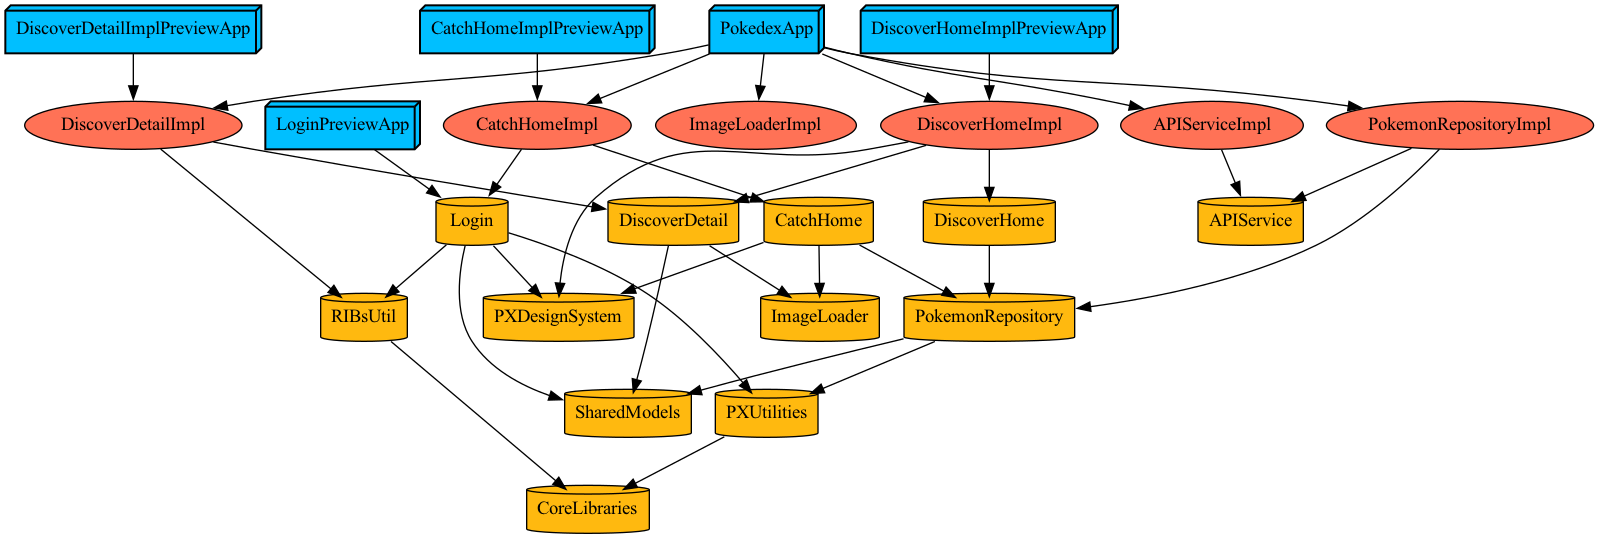
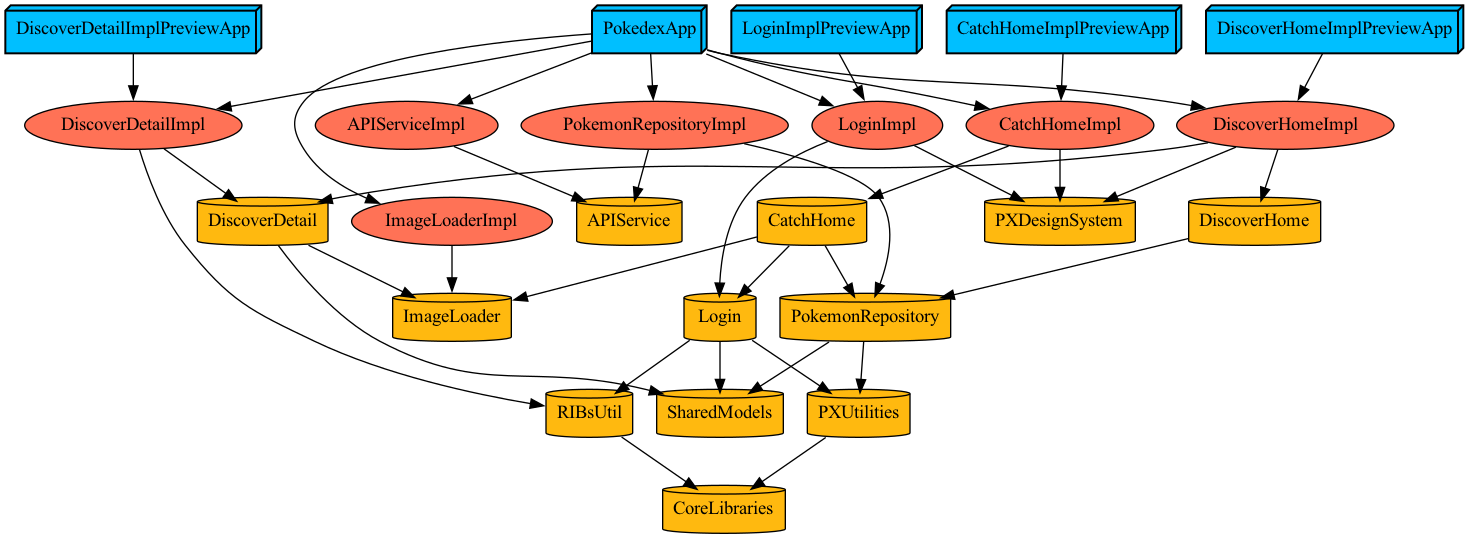
refactor: Login 모듈 인터페이스 분리

diff --git a/Modules/PokedexApp/Sources/AppRoot/AppRootBuilder.swift b/Modules/PokedexApp/Sources/AppRoot/AppRootBuilder.swift
@@ -7,10 +7,11 @@
 
 import CatchHome
 import DiscoverDetail
-import PokemonRepository
-import ImageLoader
 import DiscoverHome
 import DiscoverHomeImpl
+import ImageLoader
+import Login
+import PokemonRepository
 import PXUtilities
 import RIBs
 import RxSwift
@@ -19,6 +20,8 @@ import SharedModels
 protocol AppRootDependency: Dependency {
   var catchHomeBuilder: CatchHomeBuildable { get }
   var discoverDetailBuilder: DiscoverDetailBuildable { get }
+  var loginBuilder: LoginBuildable { get }
+
   var pokemonRepository: PokemonRepository { get }
   var imageLoader: ImageLoader { get }
   var userSubject: BehaviorSubject<User?> { get }
@@ -32,6 +35,8 @@ final class AppRootComponent:
   CatchHomeDependency {
   var catchHomeBuilder: CatchHomeBuildable { dependency.catchHomeBuilder }
   var discoverDetailBuilder: DiscoverDetailBuildable { dependency.discoverDetailBuilder }
+  var loginBuilder: LoginBuildable { dependency.loginBuilder }
+
   private let rootViewController: ViewControllable
   var pokemonRepository: PokemonRepository { dependency.pokemonRepository }
   var imageLoader: ImageLoader { dependency.imageLoader }

diff --git a/Modules/Platform/Project.swift b/Modules/Platform/Project.swift
@@ -24,19 +24,30 @@ let project: Project = .feature(
     TargetConfiguration(
       name: "ImageLoaderImpl",
       targetTypes: [.unitTest],
-      productType: .staticLibrary
+      productType: .staticLibrary,
+      dependencies: [
+        .target(name: "ImageLoader")
+      ]
     ),
     TargetConfiguration(
       name: "Login",
-      targetTypes: [
-        .unitTest,
-        .preview,
-      ],
+      targetTypes: [],
       productType: .framework,
       dependencies: [
         .target(name: "PXUtilities"),
         .target(name: "RIBsUtil"),
         .target(name: "SharedModels"),
+      ]
+    ),
+    TargetConfiguration(
+      name: "LoginImpl",
+      targetTypes: [
+        .unitTest,
+        .preview,
+      ],
+      productType: .staticLibrary,
+      dependencies: [
+        .target(name: "Login"),
         .project(target: "PXDesignSystem", path: .relativeToRoot("Modules/PXDesignSystem")),
       ]
     ),

diff --git a/Modules/PokedexApp/Sources/Application/AppComponent.swift b/Modules/PokedexApp/Sources/Application/AppComponent.swift
@@ -13,6 +13,8 @@ import DiscoverDetail
 import DiscoverDetailImpl
 import ImageLoader
 import ImageLoaderImpl
+import Login
+import LoginImpl
 import PokemonRepository
 import PokemonRepositoryImpl
 import PXUtilities
@@ -20,13 +22,21 @@ import RIBs
 import RxSwift
 import SharedModels
 
-final class AppComponent: Component<EmptyDependency>, AppRootDependency, DiscoverDetailDependency, CatchHomeDependency {
+final class AppComponent:
+  Component<EmptyDependency>,
+  AppRootDependency,
+  DiscoverDetailDependency,
+  CatchHomeDependency,
+  LoginDependency {
 
   lazy var catchHomeBuilder: CatchHomeBuildable = {
     return CatchHomeBuilder(dependency: self)
   }()
   lazy var discoverDetailBuilder: DiscoverDetailBuildable = {
     return DiscoverDetailBuilder(dependency: self)
+  }()
+  lazy var loginBuilder: LoginBuildable = {
+    return LoginBuilder(dependency: self)
   }()
 
   let apiService = APIServiceImpl(session: .shared)

diff --git a/Modules/Catch/Project.swift b/Modules/Catch/Project.swift
@@ -10,8 +10,8 @@ let project: Project = .feature(
       productType: .framework,
       dependencies: [
         .project(target: "ImageLoader", path: .relativeToRoot("Modules/Platform")),
+        .project(target: "Login", path: .relativeToRoot("Modules/Platform")),
         .project(target: "PokemonRepository", path: .relativeToRoot("Modules/Platform")),
-        .project(target: "PXDesignSystem", path: .relativeToRoot("Modules/PXDesignSystem")),
       ]
     ),
     TargetConfiguration(
@@ -20,7 +20,7 @@ let project: Project = .feature(
       productType: .staticLibrary,
       dependencies: [
         .target(name: "CatchHome"),
-        .project(target: "Login", path: .relativeToRoot("Modules/Platform")),
+        .project(target: "PXDesignSystem", path: .relativeToRoot("Modules/PXDesignSystem")),
       ]
     ),
   ],

diff --git a/Modules/Catch/CatchHomeImpl/Sources/CatchHomeBuilder.swift b/Modules/Catch/CatchHomeImpl/Sources/CatchHomeBuilder.swift
@@ -17,6 +17,7 @@ final class CatchHomeComponent:
   Component<CatchHomeDependency>,
   CatchHomeInteractorDependency,
   LoginDependency {
+  var loginBuilder: LoginBuildable { dependency.loginBuilder }
   var pokemonRepository: PokemonRepository { dependency.pokemonRepository }
   var imageLoader: ImageLoader { dependency.imageLoader }
   var user: ReadOnlyBehaviorSubject<User?> { dependency.user }
@@ -39,12 +40,10 @@ public final class CatchHomeBuilder: Builder<CatchHomeDependency>, CatchHomeBuil
     )
     interactor.listener = listener
 
-    let loginBuilder = LoginBuilder(dependency: component)
-
     return CatchHomeRouter(
       interactor: interactor,
       viewController: viewController,
-      loginBuilder: loginBuilder
+      loginBuilder: component.loginBuilder
     )
   }
 }

diff --git a/Modules/Platform/LoginImpl/Sources/LoginBuilder.swift b/Modules/Platform/LoginImpl/Sources/LoginBuilder.swift
@@ -5,23 +5,16 @@
 //  Created by Geonhee on 2023/03/13.
 //
 
+import Login
 import PXUtilities
 import RIBs
 import SharedModels
-
-public protocol LoginDependency: Dependency {
-  var user: ReadOnlyBehaviorSubject<User?> { get }
-}
 
 final class LoginComponent: Component<LoginDependency>, LoginInteractorDependency {
   var user: ReadOnlyBehaviorSubject<User?> { dependency.user }
 }
 
 // MARK: - Builder
-
-public protocol LoginBuildable: Buildable {
-  func build(withListener listener: LoginListener) -> ViewableRouting
-}
 
 public final class LoginBuilder: Builder<LoginDependency>, LoginBuildable {
 

diff --git a/Modules/PokedexApp/Project.swift b/Modules/PokedexApp/Project.swift
@@ -9,6 +9,7 @@ let project: Project = .app(
     .project(target: "DiscoverDetailImpl", path: .relativeToRoot("Modules/Discover")),
     .project(target: "APIServiceImpl", path: .relativeToRoot("Modules/Platform")),
     .project(target: "ImageLoaderImpl", path: .relativeToRoot("Modules/Platform")),
+    .project(target: "LoginImpl", path: .relativeToRoot("Modules/Platform")),
     .project(target: "PokemonRepositoryImpl", path: .relativeToRoot("Modules/Platform")),
   ],
   additionalFiles: [

diff --git a/Modules/Platform/Login/Sources/LoginInterface.swift b/Modules/Platform/Login/Sources/LoginInterface.swift
@@ -1,0 +1,22 @@
+//
+//  LoginBuilder.swift
+//  Login
+//
+//  Created by Geonhee on 2023/03/13.
+//
+
+import PXUtilities
+import RIBs
+import SharedModels
+
+public protocol LoginDependency: Dependency {
+  var user: ReadOnlyBehaviorSubject<User?> { get }
+}
+
+public protocol LoginBuildable: Buildable {
+  func build(withListener listener: LoginListener) -> ViewableRouting
+}
+
+public protocol LoginListener: AnyObject {
+  func loginDidTapLoginButton(with user: User)
+}

diff --git a/Modules/Platform/LoginImpl/Sources/LoginInteractor.swift b/Modules/Platform/LoginImpl/Sources/LoginInteractor.swift
@@ -5,6 +5,7 @@
 //  Created by Geonhee on 2023/03/13.
 //
 
+import Login
 import PXUtilities
 import RIBs
 import RxSwift
@@ -15,10 +16,6 @@ protocol LoginRouting: ViewableRouting {
 
 protocol LoginPresentable: Presentable {
   var listener: LoginPresentableListener? { get set }
-}
-
-public protocol LoginListener: AnyObject {
-  func loginDidTapLoginButton(with user: User)
 }
 
 protocol LoginInteractorDependency {

diff --git a/Modules/Catch/CatchHome/Sources/CatchHomeInterface.swift b/Modules/Catch/CatchHome/Sources/CatchHomeInterface.swift
@@ -6,12 +6,14 @@
 //
 
 import ImageLoader
+import Login
 import PokemonRepository
 import PXUtilities
 import RIBs
 import SharedModels
 
 public protocol CatchHomeDependency: Dependency {
+  var loginBuilder: LoginBuildable { get }
   var pokemonRepository: PokemonRepository { get }
   var imageLoader: ImageLoader { get }
   var user: ReadOnlyBehaviorSubject<User?> { get }

diff --git a/Modules/Platform/LoginImpl/Sources/LoginRouter.swift b/Modules/Platform/LoginImpl/Sources/LoginRouter.swift
@@ -5,6 +5,7 @@
 //  Created by Geonhee on 2023/03/13.
 //
 
+import Login
 import RIBs
 
 protocol LoginInteractable: Interactable {
